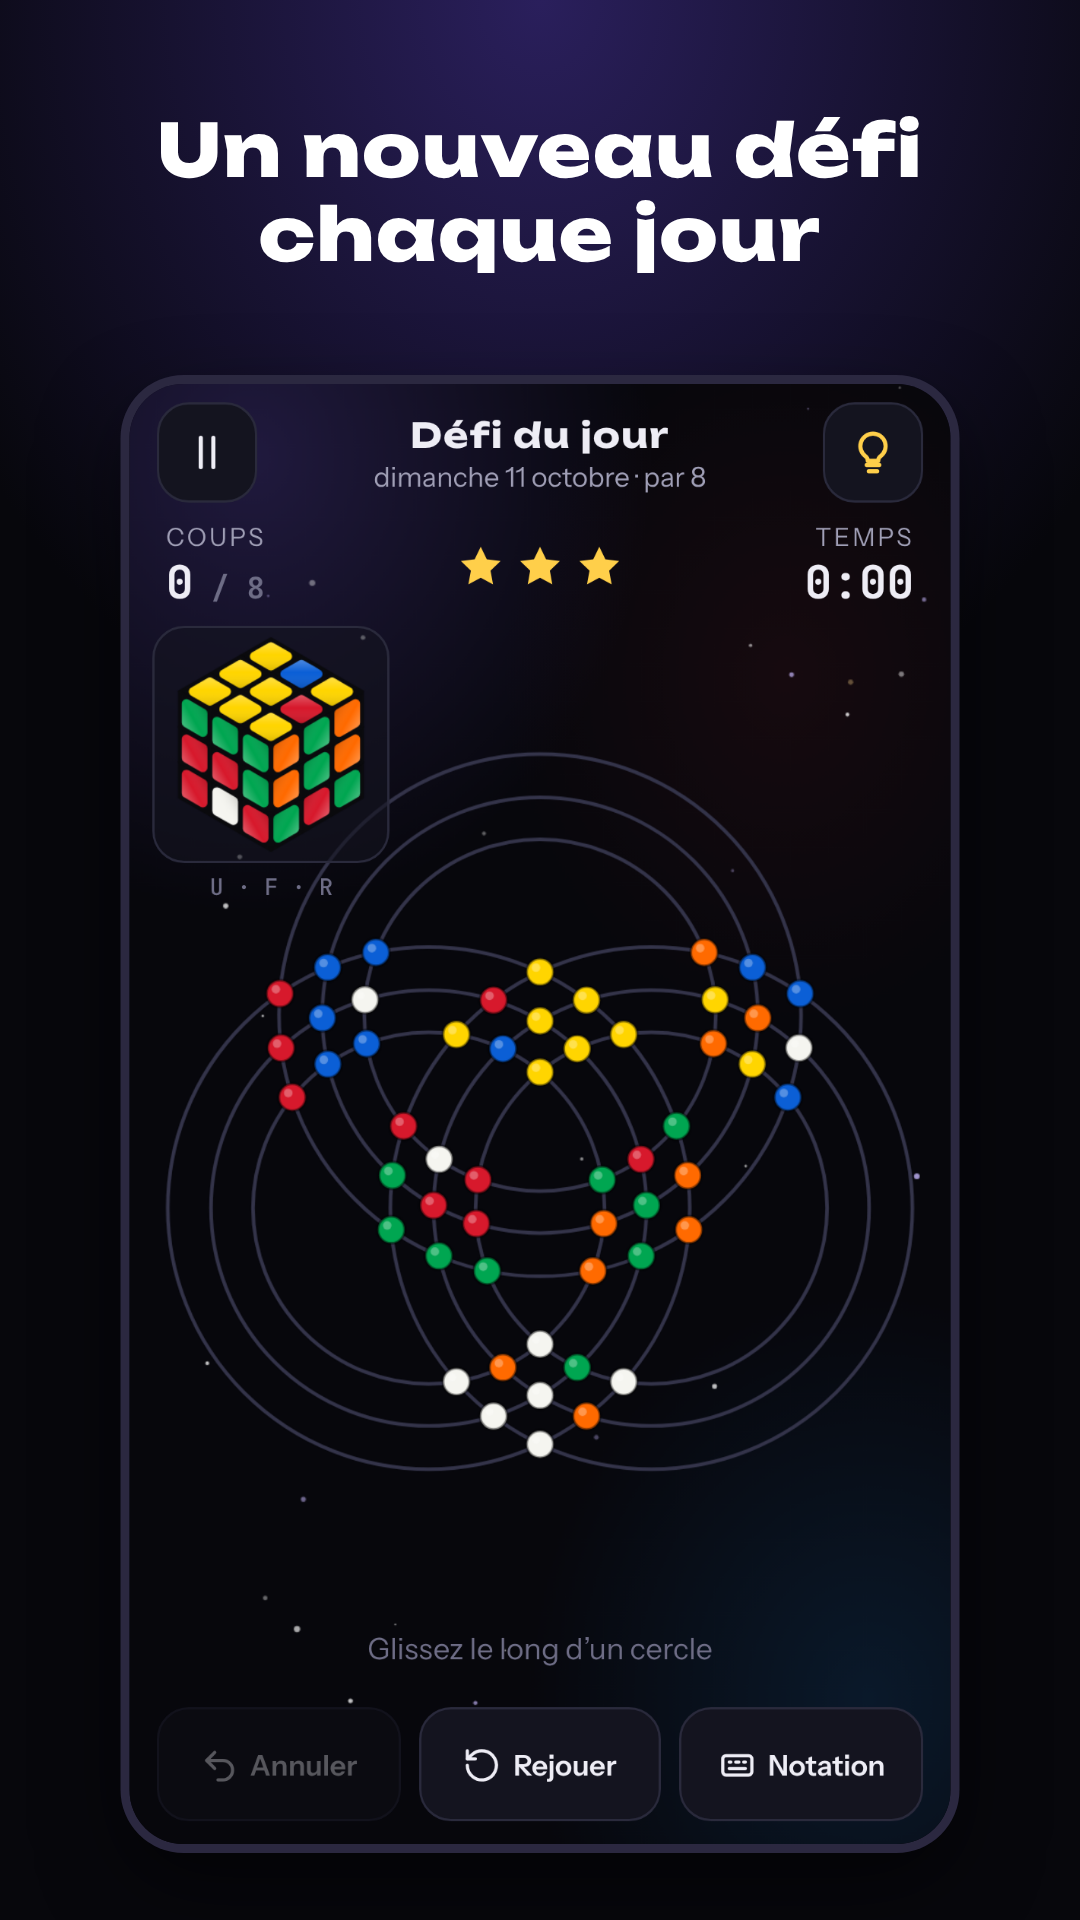
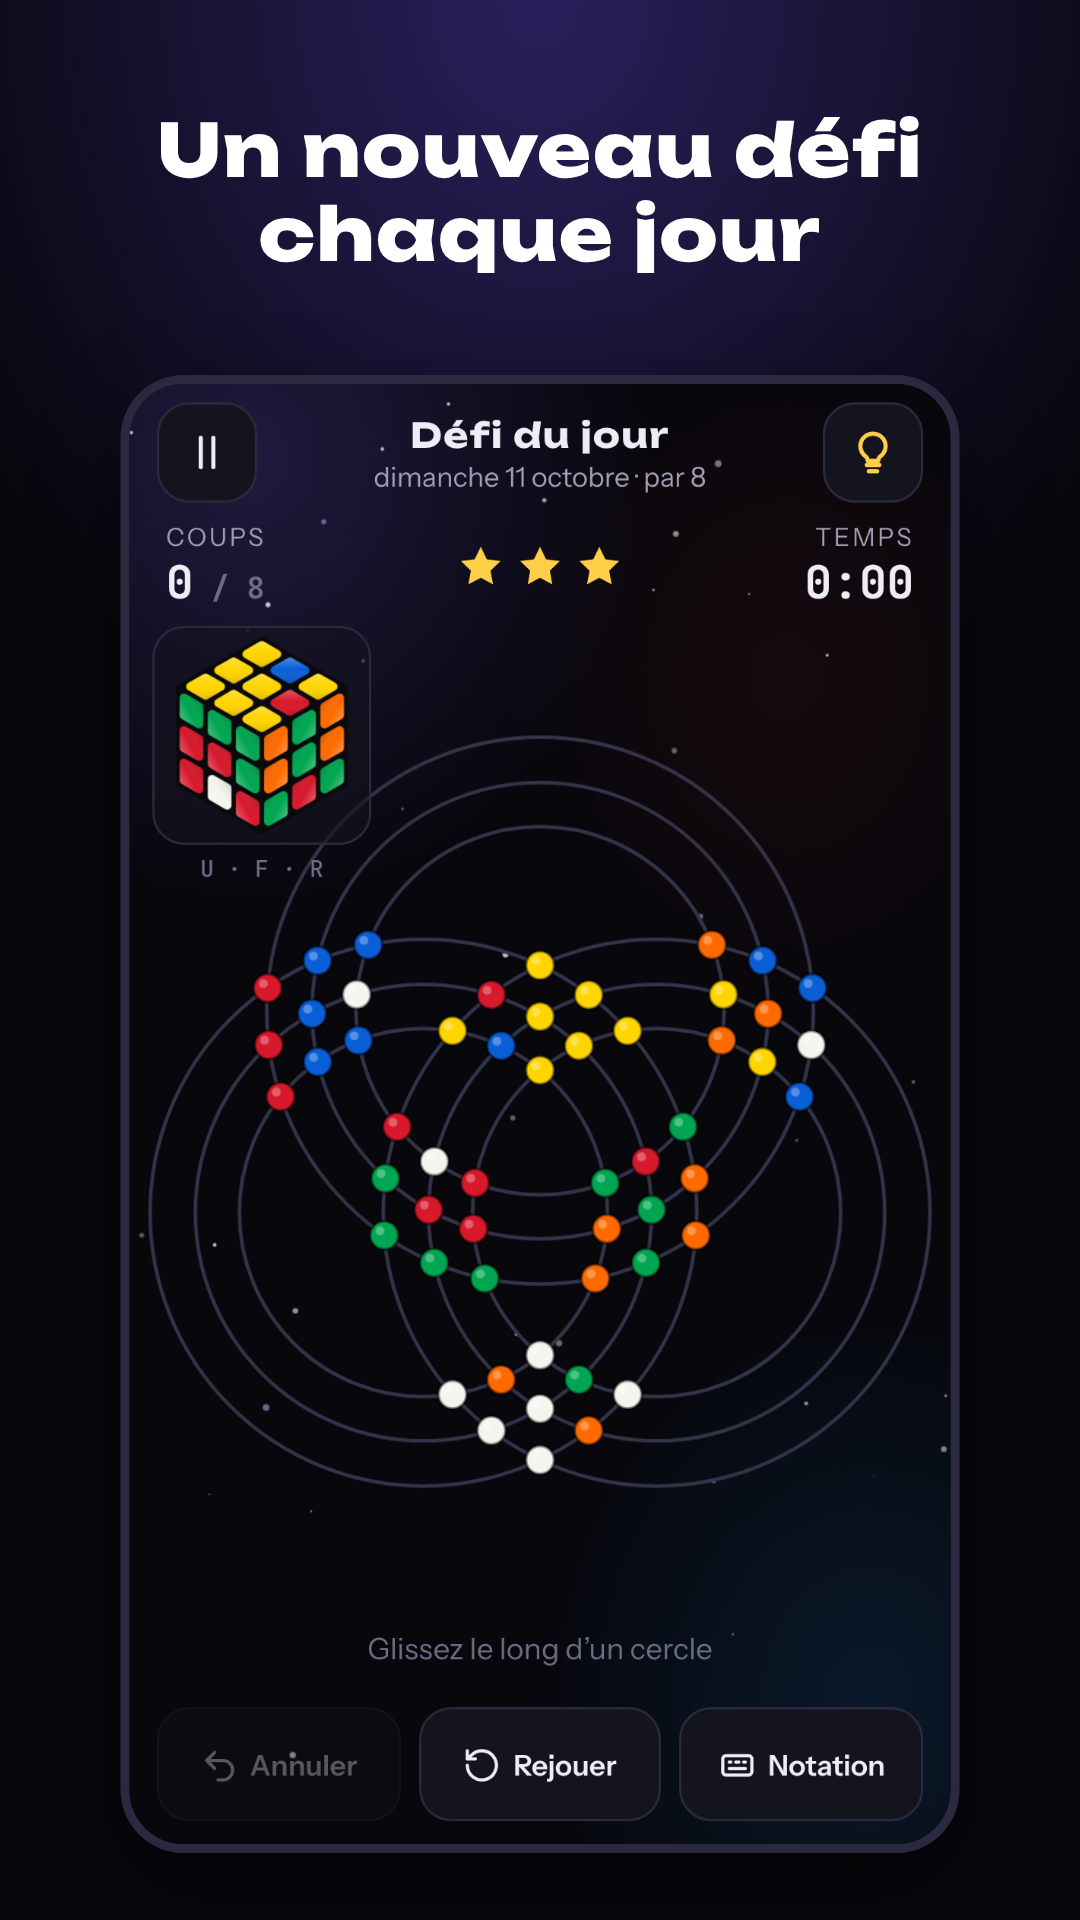
Partie : le plateau prend toute la largeur et se centre sous le cube sur les téléphones hauts
Sur un téléphone haut, le plateau était centré sur toute la zone : il passait sous le cube en
perspective et laissait un vide en bas. Il se centre maintenant dans l'espace sous le cube quand
cet espace suffit, et prend toute la largeur de l'écran. Le cube suit aussi la hauteur de l'écran.

Claude-Session: https://claude.ai/code/session_0149xvqQAFsWoXJkF64USQEK

Changed region(s): [[0.1222, 0.3125, 0.8861, 0.7812]]

diff --git a/orbicube/www/index.html b/orbicube/www/index.html
@@ -157,10 +157,10 @@ a.bouton{text-decoration:none;color:inherit}
 .stat.d{text-align:right}
 .stat b small{font-size:13px;color:var(--sourd)}
 .jetoiles{display:flex;gap:4px}.jetoiles svg{width:22px;height:22px}
-.plateau{flex:1;min-height:0;position:relative;display:flex;align-items:center;justify-content:center;padding:4px 8px}
+.plateau{flex:1;min-height:0;position:relative;display:flex;align-items:center;justify-content:center;padding:4px 0}
 #plateau{display:block;touch-action:none;max-width:100%}
-#mini{--mini:clamp(84px,29vw,118px);position:absolute;left:10px;top:6px;width:var(--mini);height:var(--mini);border-radius:14px;background:rgba(20,20,31,.6);border:1px solid var(--trait);cursor:pointer}
-.miniv{position:absolute;left:10px;top:calc(clamp(84px,29vw,118px) + 10px);font-size:10px;color:var(--sourd);width:clamp(84px,29vw,118px);text-align:center;font-family:var(--f-chiffre);pointer-events:none}
+#mini{--mini:clamp(76px,min(29vw,15vh),118px);position:absolute;left:10px;top:6px;width:var(--mini);height:var(--mini);border-radius:14px;background:rgba(20,20,31,.6);border:1px solid var(--trait);cursor:pointer}
+.miniv{position:absolute;left:10px;top:calc(clamp(76px,min(29vw,15vh),118px) + 10px);font-size:10px;color:var(--sourd);width:clamp(76px,min(29vw,15vh),118px);text-align:center;font-family:var(--f-chiffre);pointer-events:none}
 .coupgeant{position:absolute;right:14px;top:4px;font-family:var(--f-math);font-size:44px;color:var(--lilas);line-height:1;pointer-events:none;text-shadow:0 0 24px rgba(165,139,255,.5)}
 .fenetre{animation:pop .45s cubic-bezier(.3,1.4,.5,1)!important}
 .bulle{position:relative;background:rgba(27,27,41,.97);border:1px solid var(--lilas);border-radius:14px;padding:12px 14px;
@@ -780,7 +780,13 @@ function dessinerMini(){if(!PROG.options.cube)return;var w=mini.clientWidth||84,
   dessinerCube(miniC,w,JeuP.col,JeuP.anim,VUE,PIVOT);}
 JeuP.apres=function(){dessinerMini();if(J&&J.t0&&!J.fini&&!J.enPause)document.getElementById("jTemps").textContent=fmt(performance.now()-J.t0);};
 function fmt(ms){var s=Math.floor(ms/1000);return Math.floor(s/60)+":"+String(s%60).padStart(2,"0");}
-function redimJeu(){var z=document.getElementById("zonePlateau"),r=z.getBoundingClientRect();if(!r.width)return;JeuP.dimension(Math.min(r.width-16,r.height-8));dessinerMini();}
+// Le plateau prend toute la largeur. Sur un téléphone haut, il reste de la hauteur : au lieu de centrer
+// le plateau sur toute la zone (il passait sous le cube en perspective et laissait un vide en bas),
+// on le centre dans l'espace sous le cube, quand cet espace suffit.
+function redimJeu(){var z=document.getElementById("zonePlateau"),r=z.getBoundingClientRect();if(!r.width)return;
+  var t=Math.min(r.width,r.height-8),mv=document.getElementById("miniv"),hc=0;
+  if(PROG.options.cube&&!mv.hidden){hc=mv.getBoundingClientRect().bottom-r.top+2;if(r.height-hc<t+8)hc=0;}
+  JeuP.cv.style.marginTop=hc?hc+"px":"";JeuP.dimension(t);dessinerMini();}
 function redimAide(){var w=document.getElementById("aideCanvas").getBoundingClientRect().width;if(w)AideP.dimension(w);}
 var ro=new ResizeObserver(function(){if(ECRAN==="jeu")redimJeu();if(ECRAN==="accueil")Logo.demarrer();if(ECRAN==="aide")redimAide();});
 ["zonePlateau","logo","aideCanvas"].forEach(function(id){ro.observe(document.getElementById(id));});

diff --git a/orbicube/www/sw.js b/orbicube/www/sw.js
@@ -1,6 +1,6 @@
 // Version web (PWA) : tout le jeu est mis en cache pour se jouer hors ligne.
 // Incrémenter V à chaque publication, sinon les joueurs gardent l'ancienne version.
-var V = "orbicube-v8";
+var V = "orbicube-v9";
 var FICHIERS = ["./", "index.html", "config.js", "natif.js", "langues.js", "manifest.webmanifest", "confidentialite.html",
   "icones/favicon.png", "icones/apple-touch-icon.png", "icones/icon-192.png", "icones/icon-512.png", "icones/icon-maskable-512.png",
   "polices/polices.css", "polices/Unbounded-normal-700.woff2", "polices/Unbounded-normal-800.woff2",
